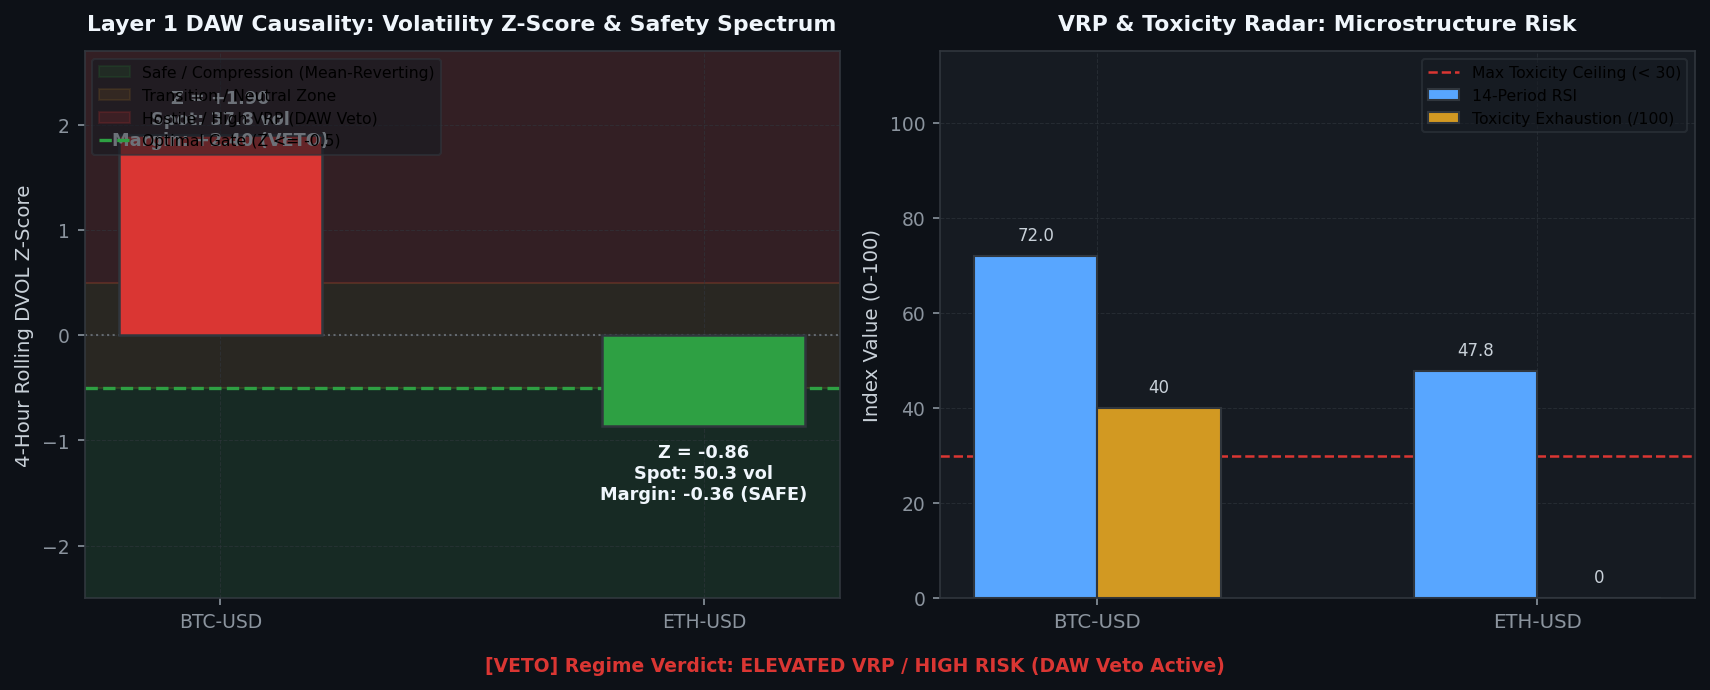
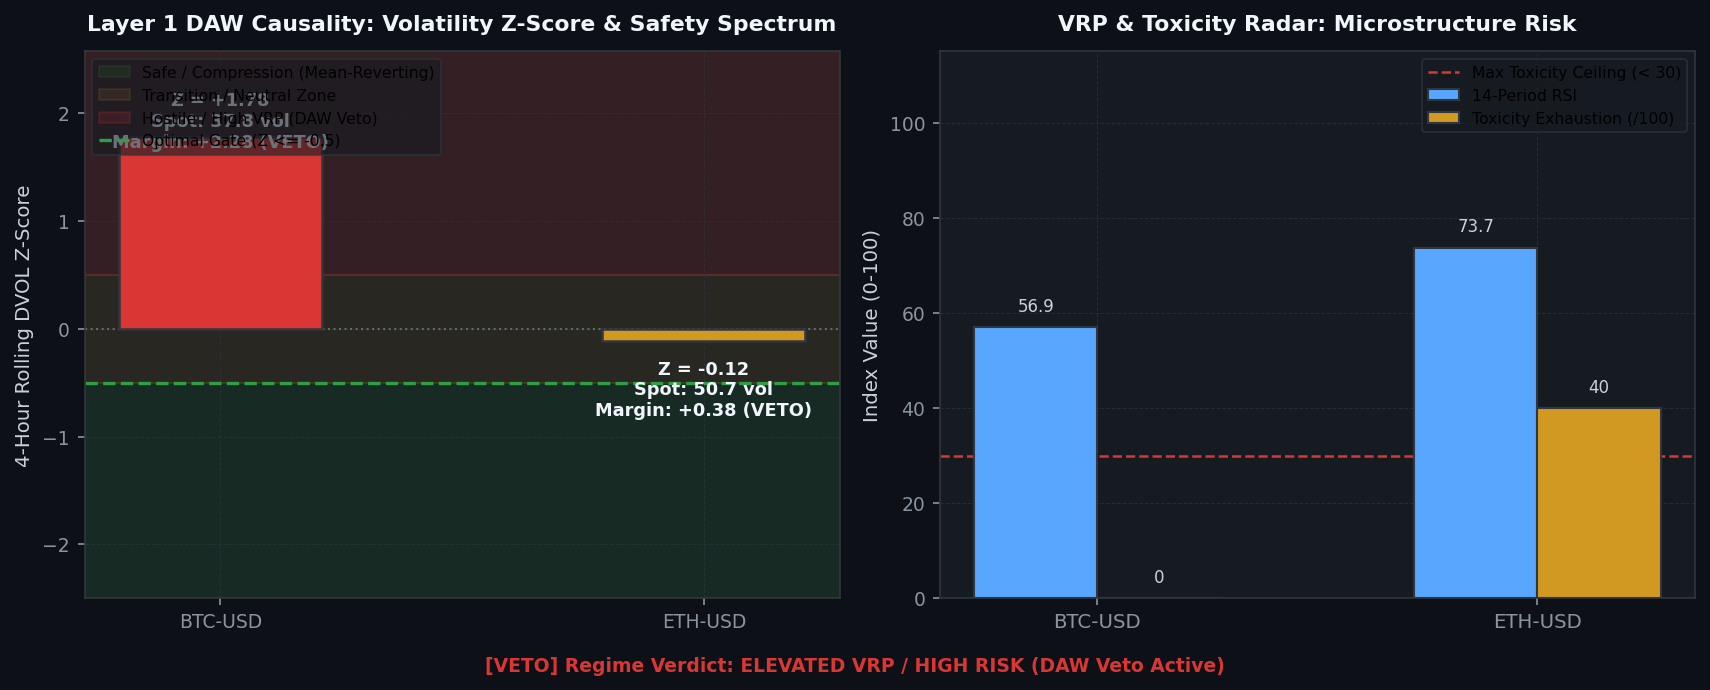
[coinbase] Hourly Status & Visual Intelligence Update: 2026-09-01 05:49:02

diff --git a/coinbase/data/hourly_status_report.md b/coinbase/data/hourly_status_report.md
@@ -3,7 +3,7 @@ layout: default
 ---
 
 # 🛡 Unified Trading System Hourly Status & Visual Intelligence
-> **Report Generated**: `2026-09-01 05:30:25 AM PDT (2026-09-01 12:30:25 UTC)`  
+> **Report Generated**: `2026-09-01 05:48:43 AM PDT (2026-09-01 12:48:43 UTC)`  
 > **System Health**: **🟡 DEGRADED / RESTRICTED** | **Win Rate**: `0.0%` | **Completed Trades**: `0`
 
 
@@ -15,13 +15,13 @@ Real-time Deribit implied volatility (DVOL) proxy tracking against mathematicall
 
 | Symbol | Proxy Oracle | Live Z-Score | Optimal Limit (YSP) | Safety Margin | Live VRP | Optimal VRP (YSP) | DAW Safety Verdict |
 | :--- | :--- | :--- | :--- | :--- | :--- | :--- | :--- |
-| `AVAX-USD` | DVOL_BTC | **+1.85** | **-0.50** | **+2.35** | **+3.49** | -1.0 | 🔴 DAW VETOED |
-| `ETH-USD` | DVOL_ETH | **-0.88** | **-0.50** | **-0.38** | **+15.73** | -1.0 | 🔴 DAW VETOED |
-| `ADA-USD` | DVOL_BTC | **+1.85** | **-0.50** | **+2.35** | **+3.74** | -1.0 | 🔴 DAW VETOED |
-| `DOGE-USD` | DVOL_BTC | **+1.85** | **-0.50** | **+2.35** | **+3.50** | -1.0 | 🔴 DAW VETOED |
-| `BTC-USD` | DVOL_BTC | **+1.85** | **-0.50** | **+2.35** | **+3.74** | -1.0 | 🔴 DAW VETOED |
-| `LINK-USD` | DVOL_BTC | **+1.85** | **-0.50** | **+2.35** | **+3.70** | -1.0 | 🔴 DAW VETOED |
-| `SOL-USD` | DVOL_BTC | **+1.85** | **-0.50** | **+2.35** | **+3.74** | -1.0 | 🔴 DAW VETOED |
+| `AVAX-USD` | DVOL_BTC | **+1.78** | **-0.50** | **+2.28** | **+3.49** | -1.0 | 🔴 DAW VETOED |
+| `ETH-USD` | DVOL_ETH | **-0.09** | **-0.50** | **+0.41** | **+15.73** | -1.0 | 🔴 DAW VETOED |
+| `ADA-USD` | DVOL_BTC | **+1.78** | **-0.50** | **+2.28** | **+3.81** | -1.0 | 🔴 DAW VETOED |
+| `DOGE-USD` | DVOL_BTC | **+1.78** | **-0.50** | **+2.28** | **+3.50** | -1.0 | 🔴 DAW VETOED |
+| `BTC-USD` | DVOL_BTC | **+1.78** | **-0.50** | **+2.28** | **+3.81** | -1.0 | 🔴 DAW VETOED |
+| `LINK-USD` | DVOL_BTC | **+1.78** | **-0.50** | **+2.28** | **+3.81** | -1.0 | 🔴 DAW VETOED |
+| `SOL-USD` | DVOL_BTC | **+1.78** | **-0.50** | **+2.28** | **+3.81** | -1.0 | 🔴 DAW VETOED |
 
 
 
@@ -37,16 +37,16 @@ We hereby certify that the mission-critical algorithmic data assets uploaded by 
 
 | Status | Data Asset | Freshness / State | Details / Timestamp |
 | :---: | :--- | :--- | :--- |
-| ✅ | **Go-List JSON** | Fresh (16.78h old) | 08-31 12:43 |
-| ✅ | **TimesFM Forecasts** | Fresh (0.63h old) | 09-01 04:52 |
-| ✅ | **Holding Times config** | Fresh (16.78h old) | 08-31 12:43 |
-| ✅ | **BTC DVOL Cache** | Fresh (0.00h old) | 09-01 05:30 |
-| ✅ | **ETH DVOL Cache** | Fresh (0.00h old) | 09-01 05:30 |
-| ✅ | **Live Trading Telemetry** | Fresh (0.00h old) | 09-01 05:30 |
+| ✅ | **Go-List JSON** | Fresh (17.08h old) | 08-31 12:43 |
+| ✅ | **TimesFM Forecasts** | Fresh (0.94h old) | 09-01 04:52 |
+| ✅ | **Holding Times config** | Fresh (17.09h old) | 08-31 12:43 |
+| ✅ | **BTC DVOL Cache** | Fresh (0.00h old) | 09-01 05:48 |
+| ✅ | **ETH DVOL Cache** | Fresh (0.00h old) | 09-01 05:48 |
+| ✅ | **Live Trading Telemetry** | Fresh (0.00h old) | 09-01 05:48 |
 
 <br>
 
-> **Utilization Certification**: ✅ **CERTIFIED.** The Guardian Watchdog is ONLINE and EC2 traders are actively querying the freshest MLOps data artifacts (Found 1915 recent read events).
+> **Utilization Certification**: ✅ **CERTIFIED.** The Guardian Watchdog is ONLINE and EC2 traders are actively querying the freshest MLOps data artifacts (Found 1831 recent read events).
 
 
 ---
@@ -55,7 +55,7 @@ Layer-by-layer tick evaluation waterfall and asset-specific performance tracking
 
 | Funnel Filter Layer | Total Rejections | % of Rejections |
 | :--- | :--- | :--- |
-| Tier 1: Macro Volatility Tensor Gate (Omega_macro) | `66,900` | **100.0%** |
+| Tier 1: Macro Volatility Tensor Gate (Omega_macro) | `67,107` | **100.0%** |
 | Tier 2: Unified Transport & Directional Engine | `0` | **0.0%** |
 | Tier 3: Continuous Hawkes-SFGK Pricer (HAS-Pricer) | `0` | **0.0%** |
 | System: Asset Cooldown Active | `0` | **0.0%** |
@@ -87,9 +87,9 @@ Operational telemetry of the high-velocity stablecoin market-making and VIP fee 
 | **Tranche Order Sizing** | `$5,000.00 USD` | Multi-block continuous capital rotation |
 | **HFT Reserve Floor** | `$15,000.00 USD` | Unencumbered liquid USD strictly reserved for 0ms volatile strikes |
 | **Priority Interrupt Mode** | 🟢 ACTIVE FARMING (NON_UU_EMERGENT=False) | Instantly cancels U/U buys when volatile trade enters |
-| **Active BUY Tranches** | **4 Orders** (`$19,991.80 USD`) | Resting Limit Bids pegged to Best Bid |
-| **Active SELL Tranches** | **3 Orders** (`$14,994.00 USDT`) | Resting Limit Asks pegged to Best Ask |
-| **Total Deployed U/U Capital** | **`$34,985.80 USD`** | Active bidirectional turnover liquidity pool |
+| **Active BUY Tranches** | **0 Orders** (`$0.00 USD`) | Resting Limit Bids pegged to Best Bid |
+| **Active SELL Tranches** | **8 Orders** (`$39,982.15 USDT`) | Resting Limit Asks pegged to Best Ask |
+| **Total Deployed U/U Capital** | **`$39,982.15 USD`** | Active bidirectional turnover liquidity pool |
 | **Rolling 30-Day Volume** | **`$2,067,473.08 USD`** | **VIP 2** (Maker: **0.05%** / 5 bps, Taker: **0.10%**) |
 | **Next Tier Milestone (VIP 3)** | **41.3% Complete** | `$2,932,526.92 USD` to reach $5,000,000.00 threshold |
 
@@ -98,13 +98,14 @@ Operational telemetry of the high-velocity stablecoin market-making and VIP fee 
 
 | Pair | Side | Limit Price | Tranche Size | Est. Value | Order ID |
 | :--- | :--- | :--- | :--- | :--- | :--- |
-| `USDT-USD` | 🟢 **BUY** | 0.99959 | 5,000.0 | `$4,997.95` | `a112ee9a-d0a2-4cc9-95c4-cd2e9af23133` |
-| `USDT-USD` | 🟢 **BUY** | 0.99959 | 5,000.0 | `$4,997.95` | `7f80cd7f-3e95-42e3-a332-c99589625ce8` |
-| `USDT-USD` | 🟢 **BUY** | 0.99959 | 5,000.0 | `$4,997.95` | `53adb18f-ab5f-4254-a7fb-975bb9a686c7` |
-| `USDT-USD` | 🟢 **BUY** | 0.99959 | 5,000.0 | `$4,997.95` | `78871b7b-6a0c-4be2-97d3-bf12f0ff8262` |
-| `USDT-USD` | 🔴 **SELL** | 0.99960 | 5,000.0 | `$4,998.00` | `3a52ea1b-fb78-41e8-a324-0b492cab7f60` |
-| `USDT-USD` | 🔴 **SELL** | 0.99960 | 5,000.0 | `$4,998.00` | `fca3e6d3-66a4-4c5f-8d95-2a0595bac80d` |
-| `USDT-USD` | 🔴 **SELL** | 0.99960 | 5,000.0 | `$4,998.00` | `f8864058-28ba-420f-9b16-f92b6fc02f47` |
+| `USDT-USD` | 🔴 **SELL** | 0.99957 | 5,000.0 | `$4,997.85` | `88f5f1a6-d06c-4fe6-bab8-78cd0e1ca7ee` |
+| `USDT-USD` | 🔴 **SELL** | 0.99956 | 5,000.0 | `$4,997.80` | `d10c8002-03c8-4102-8be1-a6fb5cd49954` |
+| `USDT-USD` | 🔴 **SELL** | 0.99955 | 5,000.0 | `$4,997.75` | `52c9b0d4-a214-45a0-8bb6-fe7bb8e8b617` |
+| `USDT-USD` | 🔴 **SELL** | 0.99955 | 5,000.0 | `$4,997.75` | `c1aead9b-a451-42f0-8eb5-9099758a90cc` |
+| `USDT-USD` | 🔴 **SELL** | 0.99955 | 5,000.0 | `$4,997.75` | `42335ac0-b9fb-4dcb-a827-66bc437a6ec9` |
+| `USDT-USD` | 🔴 **SELL** | 0.99955 | 5,000.0 | `$4,997.75` | `0e463fd5-5ebc-4544-985e-e6b7afbb0e1d` |
+| `USDT-USD` | 🔴 **SELL** | 0.99955 | 5,000.0 | `$4,997.75` | `348e78a1-24ce-49df-999a-79d1d2eced4d` |
+| `USDT-USD` | 🔴 **SELL** | 0.99955 | 5,000.0 | `$4,997.75` | `446ad4e4-21d0-4b3c-b6b4-f5a798763f4f` |
 
 
 ---
@@ -113,7 +114,7 @@ Live balance sheet and open maker liquidity positions from Coinbase CDP.
 
 | Currency | Available | Hold | Total Balance |
 | :--- | :--- | :--- | :--- |
-| `USDT` | 7839.8500 | 15000.0000 | **22839.8500** |
+| `USDT` | 33400.7800 | 16712.7500 | **50113.5300** |
 | `CRV` | 0.0500 | 0.0000 | **0.0500** |
 | `DOGE` | 0.0000 | 30644.4000 | **30644.4000** |
 | `FIL` | 0.0050 | 0.0000 | **0.0050** |
@@ -137,13 +138,9 @@ Live balance sheet and open maker liquidity positions from Coinbase CDP.
 | `AVAX-USD` | SELL | 7.29700 | 169.94 | `ff7a1af3-dbf3-4655-bddc-c5f0a8ea1b8c` |
 | `DOGE-USD` | SELL | 0.08335 | 30,644.40 | `5949f1eb-d33e-4602-a112-5ae77f744ef2` |
 | `ETH-USD` | SELL | 2,461.16000 | 0.48 | `a1cb78f7-2484-43f2-bfe6-5d27dc1c0c59` |
-| `USDT-USD` | BUY | 0.99959 | 5,000.00 | `a112ee9a-d0a2-4cc9-95c4-cd2e9af23133` |
-| `USDT-USD` | BUY | 0.99959 | 5,000.00 | `7f80cd7f-3e95-42e3-a332-c99589625ce8` |
-| `USDT-USD` | BUY | 0.99959 | 5,000.00 | `53adb18f-ab5f-4254-a7fb-975bb9a686c7` |
-| `USDT-USD` | BUY | 0.99959 | 5,000.00 | `78871b7b-6a0c-4be2-97d3-bf12f0ff8262` |
-| `USDT-USD` | SELL | 0.99960 | 5,000.00 | `3a52ea1b-fb78-41e8-a324-0b492cab7f60` |
-| `USDT-USD` | SELL | 0.99960 | 5,000.00 | `fca3e6d3-66a4-4c5f-8d95-2a0595bac80d` |
-| `USDT-USD` | SELL | 0.99960 | 5,000.00 | `f8864058-28ba-420f-9b16-f92b6fc02f47` |
+| `USDT-USD` | SELL | 0.99957 | 5,000.00 | `88f5f1a6-d06c-4fe6-bab8-78cd0e1ca7ee` |
+| `USDT-USD` | SELL | 0.99956 | 5,000.00 | `d10c8002-03c8-4102-8be1-a6fb5cd49954` |
+| `USDT-USD` | SELL | 0.99955 | 5,000.00 | `89e5af39-9124-4b1f-8291-0c191ee22790` |
 
 
 
@@ -151,14 +148,14 @@ Live balance sheet and open maker liquidity positions from Coinbase CDP.
 ## 6. 🤖 Foundation Model MLOps & Pipeline Orchestration
 Weekly Algorithmic Mega Cap selection, Zero-shot multi-step forward return forecasts, and VSTEF parameter grid search status.
 
-- **TimesFM Forecast DB**: 🟢 Updated 0.6h ago (2026-09-01 04:52 AM PDT)
+- **TimesFM Forecast DB**: 🟢 Updated 0.9h ago (2026-09-01 04:52 AM PDT)
 - **Last Weekly VSTEF Optimization**: `2026-08-31 12:42:56 PM PDT`
-- **Next Scheduled VSTEF Run**: `2026-09-06 07:00:00 PM PDT (Monday 02:00 UTC)` (Countdown: **133.5h (5d 13h 29m)**)
+- **Next Scheduled VSTEF Run**: `2026-09-06 07:00:00 PM PDT (Monday 02:00 UTC)` (Countdown: **133.2h (5d 13h 11m)**)
 - **Promoted Parameter Gates**: $Z_{DVOL} \le -0.5$ | Holding Horizon $= 12\text{h}$
 
 ### Algorithmic Mega Cap Selection
 - **Last Run (Confirmation)**: `2026-08-31 12:43:56 PM PDT`
-- **Next Scheduled Run**: `2026-09-06 06:00:00 PM PDT (Monday 01:00 UTC)` (Countdown: **132.5h (5d 12h 29m)**)
+- **Next Scheduled Run**: `2026-09-06 06:00:00 PM PDT (Monday 01:00 UTC)` (Countdown: **132.2h (5d 12h 10m)**)
 - **Selected Mega Cap Universe**: `BTC, ETH, DOGE, SUI, XRP, SOL, ZEC`
 
 
@@ -172,8 +169,8 @@ Visualizing the impact of the VSTEF (Volatility-Synchronized Stop-Tightening Exe
 ## 7. 🖥 Multi-Node Infrastructure & Watchdog Matrix
 ```text
 ================================================================================
-   🛡  SFGK FUNNEL GUARDIAN WATCHDOG (HFT ONLY) |  12:30:22 PM
-   CPU:  12.1%  |  MEM:   7.2% (14.3GB / 15.4GB Free)
+   🛡  SFGK FUNNEL GUARDIAN WATCHDOG (HFT ONLY) |  12:48:42 PM
+   CPU:  16.6%  |  MEM:   7.6% (14.2GB / 15.4GB Free)
 ================================================================================
 SERVICE              | PID      | STATUS          | RESTARTS | INFO
 --------------------------------------------------------------------------------
@@ -182,10 +179,10 @@ MAO Daemon           | 3436794  | RUNNING         | -        | Oracle Yield Anal
 U/U Farmer           | 3436796  | RUNNING         | -        | Volume Farmer
 Trader AVAX-USD      | 3436797  | RUNNING         | 0        | Evaluating Funnel/Polling Order
 Trader ETH-USD       | 3439180  | RUNNING         | 6        | Evaluating Funnel/Polling Order
-Trader ADA-USD       | 3471021  | COOL-DOWN       | 90       | Next run in 4.0s
+Trader ADA-USD       | 3490399  | RUNNING         | 142      | Evaluating Funnel/Polling Order
 Trader DOGE-USD      | 3436800  | RUNNING         | 0        | Evaluating Funnel/Polling Order
-Trader BTC-USD       | 3471023  | COOL-DOWN       | 90       | Next run in 4.0s
-Trader LINK-USD      | 3471288  | RUNNING         | 85       | Evaluating Funnel/Polling Order
+Trader BTC-USD       | 3490400  | RUNNING         | 142      | Evaluating Funnel/Polling Order
+Trader LINK-USD      | 3490370  | COOL-DOWN       | 136      | Next run in 14.4s
 ```
 
 ---
@@ -204,16 +201,6 @@ Trader LINK-USD      | 3471288  | RUNNING         | 85       | Evaluating Funnel
 <summary><b>Click to expand raw incident logs</b></summary>
 
 ```text
-logs/watchdog_Trader_SOL_USD.log:2026-09-01 10:34:04 [WARNING] [async_sfgk_trader.py:_execute_api_call:299] [SOL-USD] Coinbase API Call Exception (Attempt 1/5). Func: get_accounts | Sleeping 1.37s... | Error: 429 Client Error: Too Many Requests 
-logs/watchdog_Trader_SOL_USD.log:2026-09-01 10:34:26 [WARNING] [async_sfgk_trader.py:_execute_api_call:299] [SOL-USD] Coinbase API Call Exception (Attempt 1/5). Func: get_accounts | Sleeping 1.41s... | Error: 429 Client Error: Too Many Requests 
-logs/watchdog_Trader_SOL_USD.log:2026-09-01 10:35:09 [WARNING] [async_sfgk_trader.py:_execute_api_call:299] [SOL-USD] Coinbase API Call Exception (Attempt 1/5). Func: get_accounts | Sleeping 1.15s... | Error: 429 Client Error: Too Many Requests 
-logs/watchdog_Trader_SOL_USD.log:2026-09-01 10:35:31 [WARNING] [async_sfgk_trader.py:_execute_api_call:299] [SOL-USD] Coinbase API Call Exception (Attempt 1/5). Func: get_accounts | Sleeping 1.45s... | Error: 429 Client Error: Too Many Requests 
-logs/watchdog_Trader_SOL_USD.log:2026-09-01 10:36:14 [WARNING] [async_sfgk_trader.py:_execute_api_call:299] [SOL-USD] Coinbase API Call Exception (Attempt 1/5). Func: get_accounts | Sleeping 1.40s... | Error: 429 Client Error: Too Many Requests 
-logs/watchdog_Trader_SOL_USD.log:2026-09-01 10:36:36 [WARNING] [async_sfgk_trader.py:_execute_api_call:299] [SOL-USD] Coinbase API Call Exception (Attempt 1/5). Func: get_product | Sleeping 1.31s... | Error: 429 Client Error: Too Many Requests 
-logs/watchdog_Trader_SOL_USD.log:2026-09-01 10:36:57 [WARNING] [async_sfgk_trader.py:_execute_api_call:299] [SOL-USD] Coinbase API Call Exception (Attempt 1/5). Func: get_accounts | Sleeping 1.36s... | Error: 429 Client Error: Too Many Requests 
-logs/watchdog_Trader_SOL_USD.log:2026-09-01 10:37:19 [WARNING] [async_sfgk_trader.py:_execute_api_call:299] [SOL-USD] Coinbase API Call Exception (Attempt 1/5). Func: get_product | Sleeping 1.34s... | Error: 429 Client Error: Too Many Requests 
-logs/watchdog_Trader_SOL_USD.log:2026-09-01 10:37:40 [WARNING] [async_sfgk_trader.py:_execute_api_call:299] [SOL-USD] Coinbase API Call Exception (Attempt 1/5). Func: get_accounts | Sleeping 1.49s... | Error: 429 Client Error: Too Many Requests 
-logs/watchdog_Trader_SOL_USD.log:2026-09-01 10:39:06 [WARNING] [async_sfgk_trader.py:_execute_api_call:299] [SOL-USD] Coinbase API Call Exception (Attempt 1/5). Func: get_product | Sleeping 1.33s... | Error: 429 Client Error: Too Many Requests 
 logs/watchdog_Trader_SOL_USD.log:2026-09-01 10:50:18 [WARNING] [async_sfgk_trader.py:_execute_api_call:299] [SOL-USD] Coinbase API Call Exception (Attempt 1/5). Func: get_accounts | Sleeping 1.29s... | Error: 429 Client Error: Too Many Requests 
 logs/watchdog_Trader_SOL_USD.log:2026-09-01 10:53:31 [WARNING] [async_sfgk_trader.py:_execute_api_call:299] [SOL-USD] Coinbase API Call Exception (Attempt 1/5). Func: get_product | Sleeping 1.19s... | Error: 429 Client Error: Too Many Requests 
 logs/watchdog_Trader_SOL_USD.log:2026-09-01 10:53:52 [WARNING] [async_sfgk_trader.py:_execute_api_call:299] [SOL-USD] Coinbase API Call Exception (Attempt 1/5). Func: get_accounts | Sleeping 1.48s... | Error: 429 Client Error: Too Many Requests 
@@ -243,7 +230,17 @@ logs/watchdog_Trader_SOL_USD.log:2026-09-01 12:20:05 [WARNING] [async_sfgk_trade
 logs/watchdog_Trader_SOL_USD.log:2026-09-01 12:22:14 [WARNING] [async_sfgk_trader.py:_execute_api_call:299] [SOL-USD] Coinbase API Call Exception (Attempt 1/5). Func: get_accounts | Sleeping 1.44s... | Error: 429 Client Error: Too Many Requests 
 logs/watchdog_Trader_SOL_USD.log:2026-09-01 12:26:32 [WARNING] [async_sfgk_trader.py:_execute_api_call:299] [SOL-USD] Coinbase API Call Exception (Attempt 1/5). Func: get_product | Sleeping 1.28s... | Error: 429 Client Error: Too Many Requests 
 logs/watchdog_Trader_SOL_USD.log:2026-09-01 12:27:15 [WARNING] [async_sfgk_trader.py:_execute_api_call:299] [SOL-USD] Coinbase API Call Exception (Attempt 1/5). Func: get_accounts | Sleeping 1.42s... | Error: 429 Client Error: Too Many Requests 
-logs/watchdog_Trader_SOL_USD.log:2026-09-01 12:28:41 [WARNING] [async_sfgk_trader.py:_execute_api_call:299] [SOL-USD] Coinbase API Call Exception (Attempt 1/5). Func: get_accounts | Sleeping 1.50s... | Error: 429 Client Error: Too Many Requests
+logs/watchdog_Trader_SOL_USD.log:2026-09-01 12:28:41 [WARNING] [async_sfgk_trader.py:_execute_api_call:299] [SOL-USD] Coinbase API Call Exception (Attempt 1/5). Func: get_accounts | Sleeping 1.50s... | Error: 429 Client Error: Too Many Requests 
+logs/watchdog_Trader_SOL_USD.log:2026-09-01 12:34:25 [WARNING] [async_sfgk_trader.py:_execute_api_call:299] [SOL-USD] Coinbase API Call Exception (Attempt 1/5). Func: get_product | Sleeping 1.38s... | Error: 429 Client Error: Too Many Requests 
+logs/watchdog_Trader_SOL_USD.log:2026-09-01 12:36:12 [WARNING] [async_sfgk_trader.py:_execute_api_call:299] [SOL-USD] Coinbase API Call Exception (Attempt 1/5). Func: get_accounts | Sleeping 1.21s... | Error: 429 Client Error: Too Many Requests 
+logs/watchdog_Trader_SOL_USD.log:2026-09-01 12:37:38 [WARNING] [async_sfgk_trader.py:_execute_api_call:299] [SOL-USD] Coinbase API Call Exception (Attempt 1/5). Func: get_product | Sleeping 1.27s... | Error: 429 Client Error: Too Many Requests 
+logs/watchdog_Trader_SOL_USD.log:2026-09-01 12:39:47 [WARNING] [async_sfgk_trader.py:_execute_api_call:299] [SOL-USD] Coinbase API Call Exception (Attempt 1/5). Func: get_product | Sleeping 1.24s... | Error: 429 Client Error: Too Many Requests 
+logs/watchdog_Trader_SOL_USD.log:2026-09-01 12:40:08 [WARNING] [async_sfgk_trader.py:_execute_api_call:299] [SOL-USD] Coinbase API Call Exception (Attempt 1/5). Func: get_accounts | Sleeping 1.18s... | Error: 429 Client Error: Too Many Requests 
+logs/watchdog_Trader_SOL_USD.log:2026-09-01 12:40:30 [WARNING] [async_sfgk_trader.py:_execute_api_call:299] [SOL-USD] Coinbase API Call Exception (Attempt 1/5). Func: get_product | Sleeping 1.33s... | Error: 429 Client Error: Too Many Requests 
+logs/watchdog_Trader_SOL_USD.log:2026-09-01 12:43:21 [WARNING] [async_sfgk_trader.py:_execute_api_call:299] [SOL-USD] Coinbase API Call Exception (Attempt 1/5). Func: get_accounts | Sleeping 1.16s... | Error: 429 Client Error: Too Many Requests 
+logs/watchdog_Trader_SOL_USD.log:2026-09-01 12:44:04 [WARNING] [async_sfgk_trader.py:_execute_api_call:299] [SOL-USD] Coinbase API Call Exception (Attempt 1/5). Func: get_product | Sleeping 1.18s... | Error: 429 Client Error: Too Many Requests 
+logs/watchdog_Trader_SOL_USD.log:2026-09-01 12:44:47 [WARNING] [async_sfgk_trader.py:_execute_api_call:299] [SOL-USD] Coinbase API Call Exception (Attempt 1/5). Func: get_product | Sleeping 1.32s... | Error: 429 Client Error: Too Many Requests 
+logs/watchdog_Trader_SOL_USD.log:2026-09-01 12:45:51 [WARNING] [async_sfgk_trader.py:_execute_api_call:299] [SOL-USD] Coinbase API Call Exception (Attempt 1/5). Func: get_accounts | Sleeping 1.33s... | Error: 429 Client Error: Too Many Requests
 ```
 </details>
 

diff --git a/coinbase/data/visual_intelligence.md b/coinbase/data/visual_intelligence.md
@@ -4,7 +4,7 @@ title: Visual Intelligence Gallery
 ---
 
 # 📈 Visual Intelligence Gallery
-> **Generated:** `2026-09-01 05:30:44`
+> **Generated:** `2026-09-01 05:49:02`
 > **[Return to Main Status Report](./hourly_status_report.md)**
 
 This page visualizes the internal states, market profiles, and decision criteria of the active **3-Tier Fused Decision Engine** across all layers.
